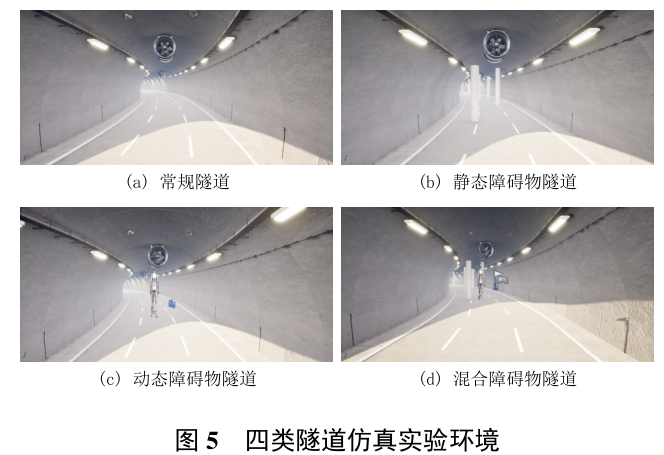
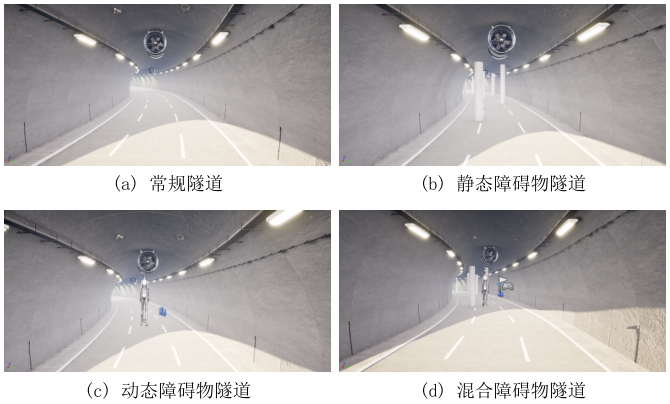
docs: use caption-free source figures, add architecture diagram

diff --git a/README.md b/README.md
@@ -21,7 +21,9 @@
 - **训练机制**：面向不等长轨迹的序列化 SAC——特征缓存、掩码损失、分阶段梯度更新
 - **对比基线**：SAC(FrameStack4) / CoordAtt-SAC / LSTM-SAC / Transformer-SAC / Mamba-SAC
 
-![MA-SAC 与现有方法对比](docs/figures/method_overview.png)
+![MA-SAC 系统框架：环境观测 → CoordAtt 特征重标定 → Mamba 时序主干 → Actor/Critic](docs/figures/architecture.png)
+
+![MA-SAC 与现有方法对比](docs/figures/method_compare.png)
 
 ## 仓库结构
 
